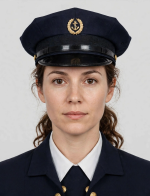
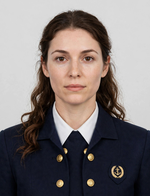
v6.2: portrait without cap (hair visible); watermark rose medallion (Rhodonea) from pattern-generator

diff --git a/main.py b/main.py
@@ -503,6 +503,23 @@ def draw_ghost(cv, x, y, w, h, alpha):
                       (px[o], px[o + 1], px[o + 2]), alpha * f)
 
 
+def draw_watermark_rose(cv, cx, cy, color):
+    # v6.2: the watermark image, built from the pattern-generator
+    # repo's Rhodonea (rose) curve: r = A * cos(k * theta). A
+    # seven-petal medallion, faint like a paper watermark, under the
+    # printed data. k = 7 (odd) closes the curve after one pi.
+    A, k = 110, 7
+    steps = 720
+    pts = []
+    for i in range(steps + 1):
+        t = math.pi * i / steps
+        r = A * math.cos(k * t)
+        pts.append((cx + r * math.cos(t), cy + r * math.sin(t)))
+    for i in range(len(pts) - 1):
+        cv.line(int(pts[i][0]), int(pts[i][1]),
+                int(pts[i + 1][0]), int(pts[i + 1][1]), color, 1)
+
+
 def draw_rosette(cv, cx, cy, color):
     # v6: a banknote rosette behind the data page, after the
     # parametric curves in the pattern-generator repo (circular wave
@@ -591,6 +608,8 @@ def build():
     # v6: guilloche rosette behind the data page (replaces the plain
     # concentric rings): a banknote-style security rosette
     draw_rosette(cv, 256, 310, GUILLOCHE)
+    # v6.2: watermark medallion from the pattern-generator repo
+    draw_watermark_rose(cv, 256, 310, GUILLOCHE)
 
     # vertical margin note, left edge
     draw_text_rot(cv, 26, 430, 1, "REPUBLIKA KESTRIA - PASAPORTA", INK_SOFT, -90)
